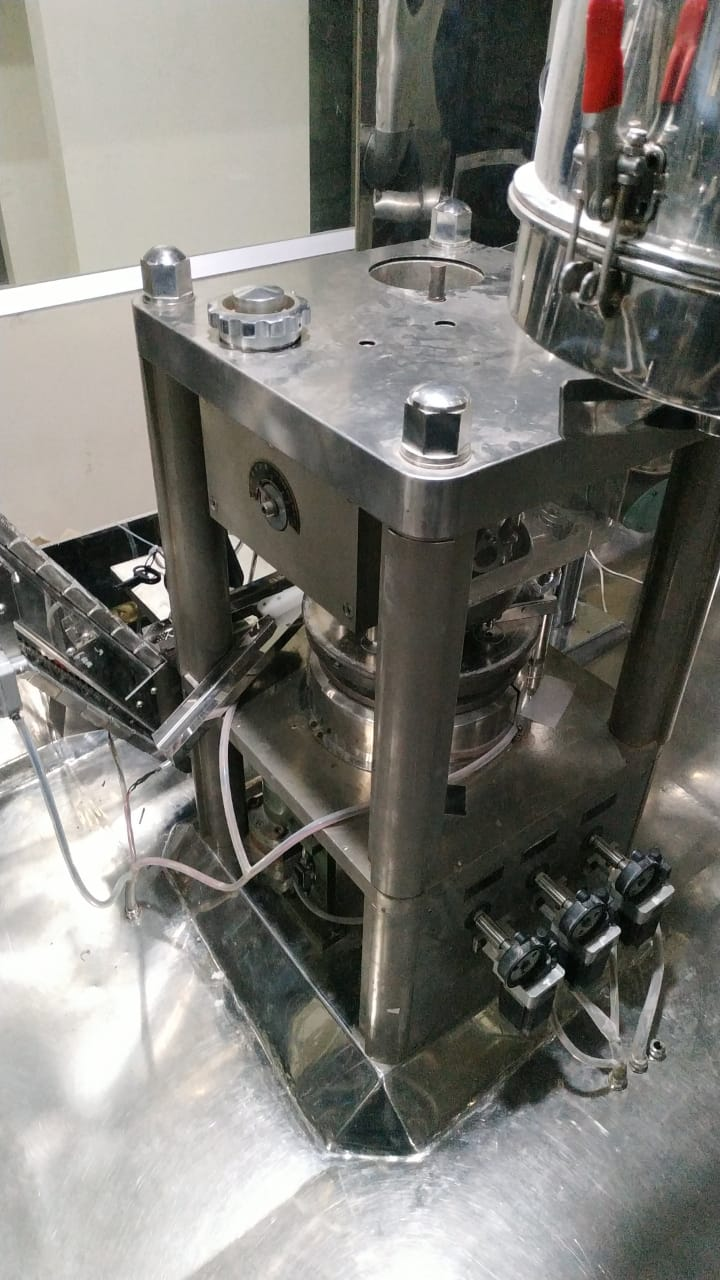
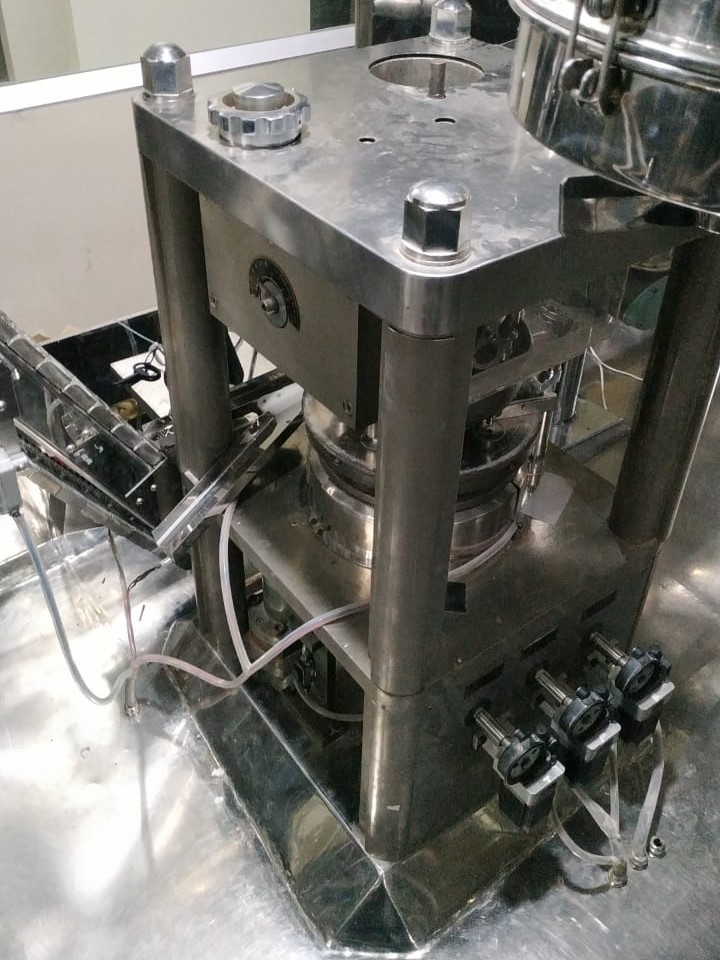
update project image

diff --git a/index.html b/index.html
@@ -164,10 +164,10 @@
             <p><strong>Key achievement:</strong></p>
             <ul>
               <li> 
-                Lead and supervise engineering teams with 100% millennial generation.
+                Lead and supervise engineering teams with 80% millennial generation.
               </li>
               <li>
-                Reduce engineering costs up to 70% by developing sensors and monitoring systems with inhouse R&D.
+                Reduce engineering costs up to 20% by developing sensors and monitoring systems with inhouse R&D.
               </li>
               <li>
                 Create a cloud-based collaborative Project Platform to accommodate engineering teams while working remotely / WFH.
@@ -389,7 +389,7 @@
               <article class="tile is-child notification">
                 <p class="title is-5">Automating Multiple Tablet Rotary Press</p>
                 <figure class="image is-4by3">
-                  <img class="modal-trigger" data-target="project-4-modal" src="img/project-4-cover.png">
+                  <img class="modal-trigger" data-target="project-4-modal" src="FOTO PROJECT\TABLET_PUNCH\20190103_113106.jpg">
                 </figure>
               </article>
             </div>
@@ -411,7 +411,7 @@
               <article class="tile is-child notification">
                 <p class="title is-5">Automatic Weighing Conveyor</p>
                 <figure class="image is-4by3">
-                  <img class="modal-trigger" data-target="project-5-modal" src="img/project-5-cover.png">
+                  <img class="modal-trigger" data-target="project-5-modal" src="FOTO PROJECT\CONVEYOR AUTO WEIGH\IMG_20161228_101015.jpg">
                 </figure>
               </article>
             </div>
@@ -486,39 +486,9 @@
             </div>
             <div class="tile is-parent">
               <article class="tile is-child notification">
-                <p class="title is-5"></p>
-                <figure class="image is-4by3">
-                  <img class="modal-trigger" data-target="project-6-modal" src="img/project-6-cover.png">
-                </figure>
-              </article>
-            </div>
-          </div>
-        </div>
-      </div>
-      <div class="tile is-ancestor">
-        <div class="tile is-vertical is-12">
-          <div class="tile">
-            <div class="tile is-parent">
-              <article class="tile is-child notification">
                 <p class="title is-5">Indoor Smart Farming: Agrotech</p>
                 <figure class="image is-4by3">
                   <img class="modal-trigger" data-target="project-3-modal" src="FOTO PROJECT/INDOOR SMART_FARMING/IMG_20191209_113223.jpg">
-                </figure>
-              </article>
-            </div>
-            <div class="tile is-parent">
-              <article class="tile is-child notification">
-                <p class="title is-5">Auto Damper: HVAC project</p>
-                <figure class="image is-4by3">
-                  <img class="modal-trigger" data-target="project-5-modal" src="FOTO_PROJECT">
-                </figure>
-              </article>
-            </div>
-            <div class="tile is-parent">
-              <article class="tile is-child notification">
-                <p class="title is-5">Negatif Presure Room : HVAC Project </p>
-                <figure class="image is-4by3">
-                  <img class="modal-trigger" data-target="project-6-modal" src="img/">
                 </figure>
               </article>
             </div>
@@ -819,18 +789,18 @@
         <button class="delete" aria-label="close"></button>
       </header>
       <section class="modal-card-body">
-        <div id="project-modal-4carousel" class="carousel">
+        <div id="project-modal-4-carousel" class="carousel">
+          <figure class="image is-4by3 carousel-cell">
+            <img src="FOTO PROJECT/ROBOT ARM UR5 ROS/20190405_104700.jpg">
+          </figure>          
           <figure class="image is-4by3 carousel-cell">
             <img src="FOTO PROJECT/ROBOT ARM UR5 ROS/WhatsApp Image 2021-02-18 at 1.35.18 PM.jpeg">
           </figure>
-          <figure class="image is-3by4 carousel-cell">
-            <img src="FOTO PROJECT/ROBOT ARM ONCOLOGY/cropGripper Module.jpg">
+          <figure class="image is-4by3 carousel-cell">
+            <img src="FOTO PROJECT/ROBOT ARM UR5 ROS/WhatsApp Image 2021-02-18 at 1.35.04 PM.jpeg">
           </figure>
           <figure class="image is-4by3 carousel-cell">
-            <img src="FOTO PROJECT/ROBOT ARM ONCOLOGY/cropview4.jpg">
-          </figure>
-          <figure class="image is-4by3 carousel-cell">
-              <iframe class="has-ratio" width="640" height="360" src="https://www.youtube.com/embed/VCXHl1qNiLE" frameborder="0" allowfullscreen></iframe>
+            <img src="FOTO PROJECT/ROBOT ARM UR5 ROS/IMG_20190528_172436.jpg">
           </figure>
         </div>
 
